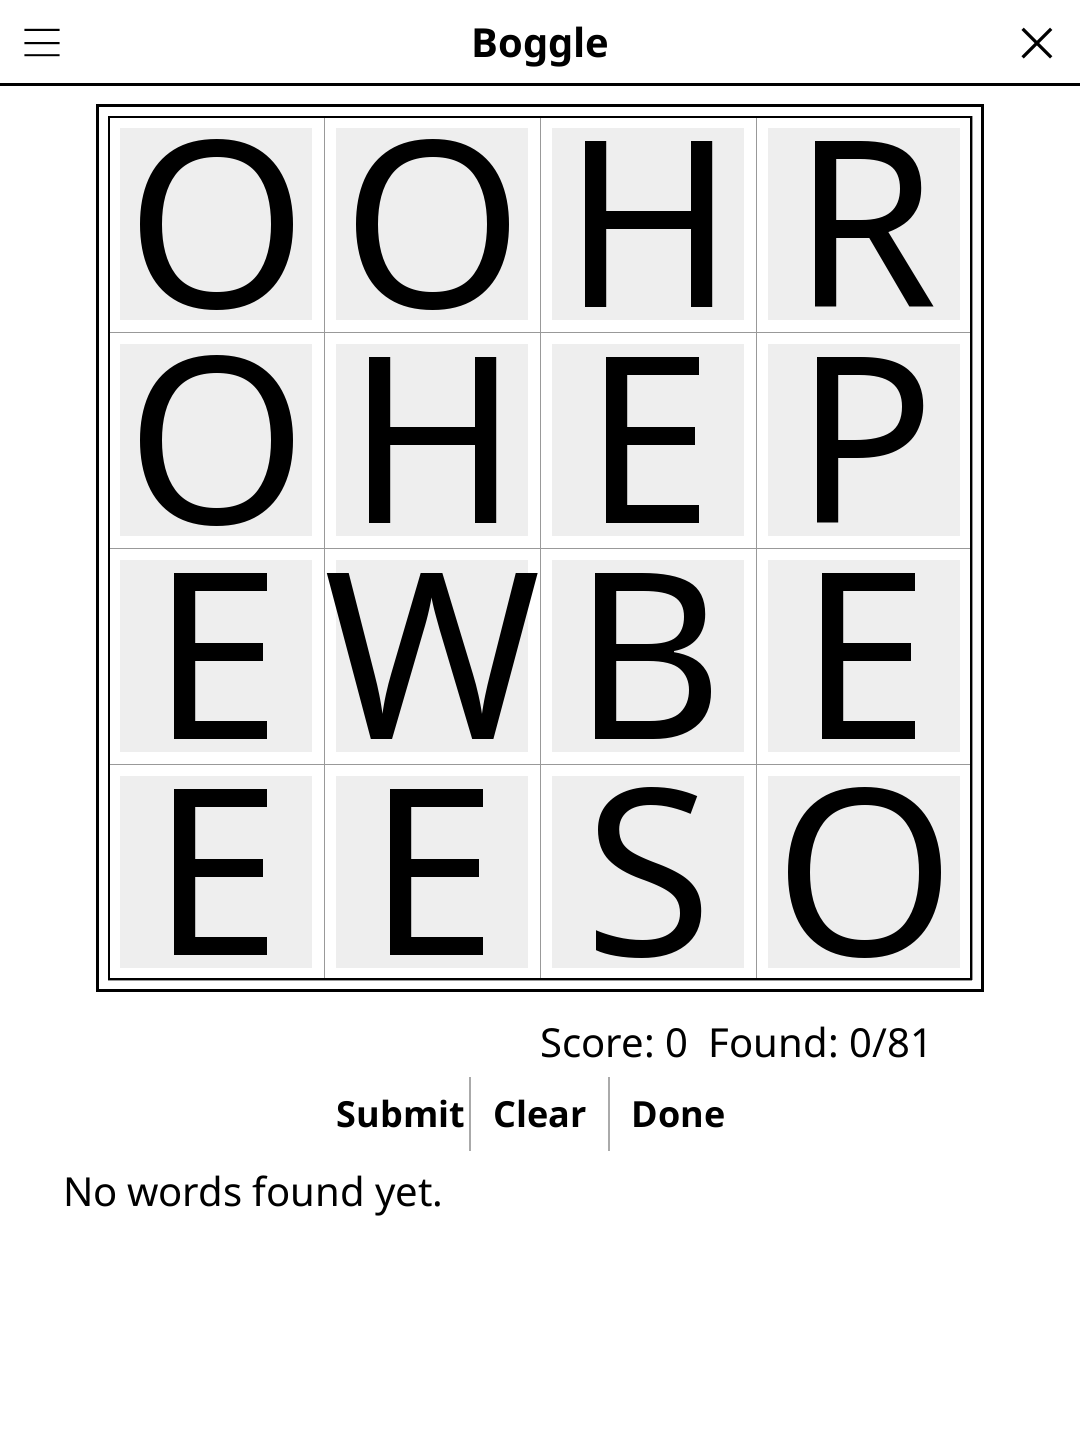
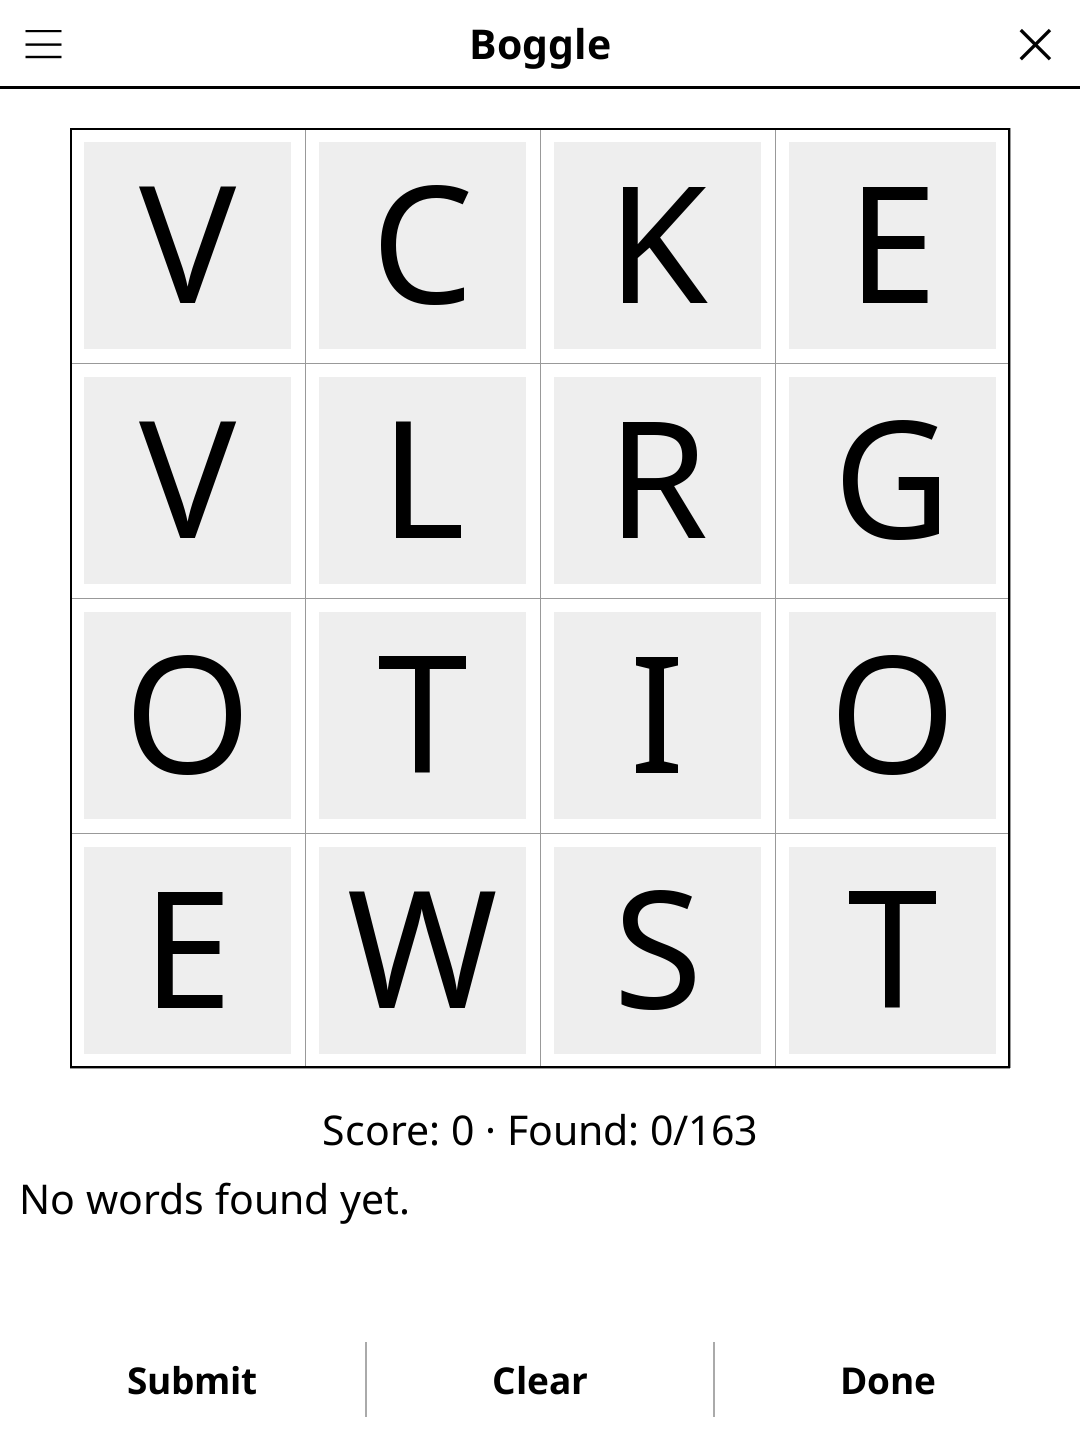
release: 1.4.0 -- redesigned screen, harmonised menu, New game at round end
Screen redesign (full-width action bar, unified pad, status line, larger
board), harmonised title-bar menu, and a "New game" button once the round
is over. See CHANGELOG.md.

diff --git a/CHANGELOG.md b/CHANGELOG.md
@@ -2,6 +2,26 @@
 
 All notable changes to this project will be documented in this file.
 
+## [1.4.0] - 2026-10-30
+
+### Changed
+- Redesigned play screen: the grid fills the room the controls leave, with the
+  found words in a scrolling box above a full-width Submit/Clear/Done bar.
+- The status line reads "WORD · Score: 12 · Found: 5/48", the word being
+  traced first so it stays visible, and wraps in landscape.
+- After Done, every missed word is listed under the found ones in the word
+  box, instead of the first twenty on the status line, where they never
+  fitted. The status shows the final score.
+- Once the round is over, the action bar shows "New game" in place of its
+  buttons.
+- The language entry in the title-bar menu reads "Language: EN" instead of a
+  bare "EN".
+
+### Fixed
+- Letters and the small order numbers on traced tiles are fitted to their
+  tile; their size used to be scaled by DPI twice, so they overflowed on
+  high-DPI screens.
+
 ## [1.3.2] - 2026-10-07
 
 ### Fixed
